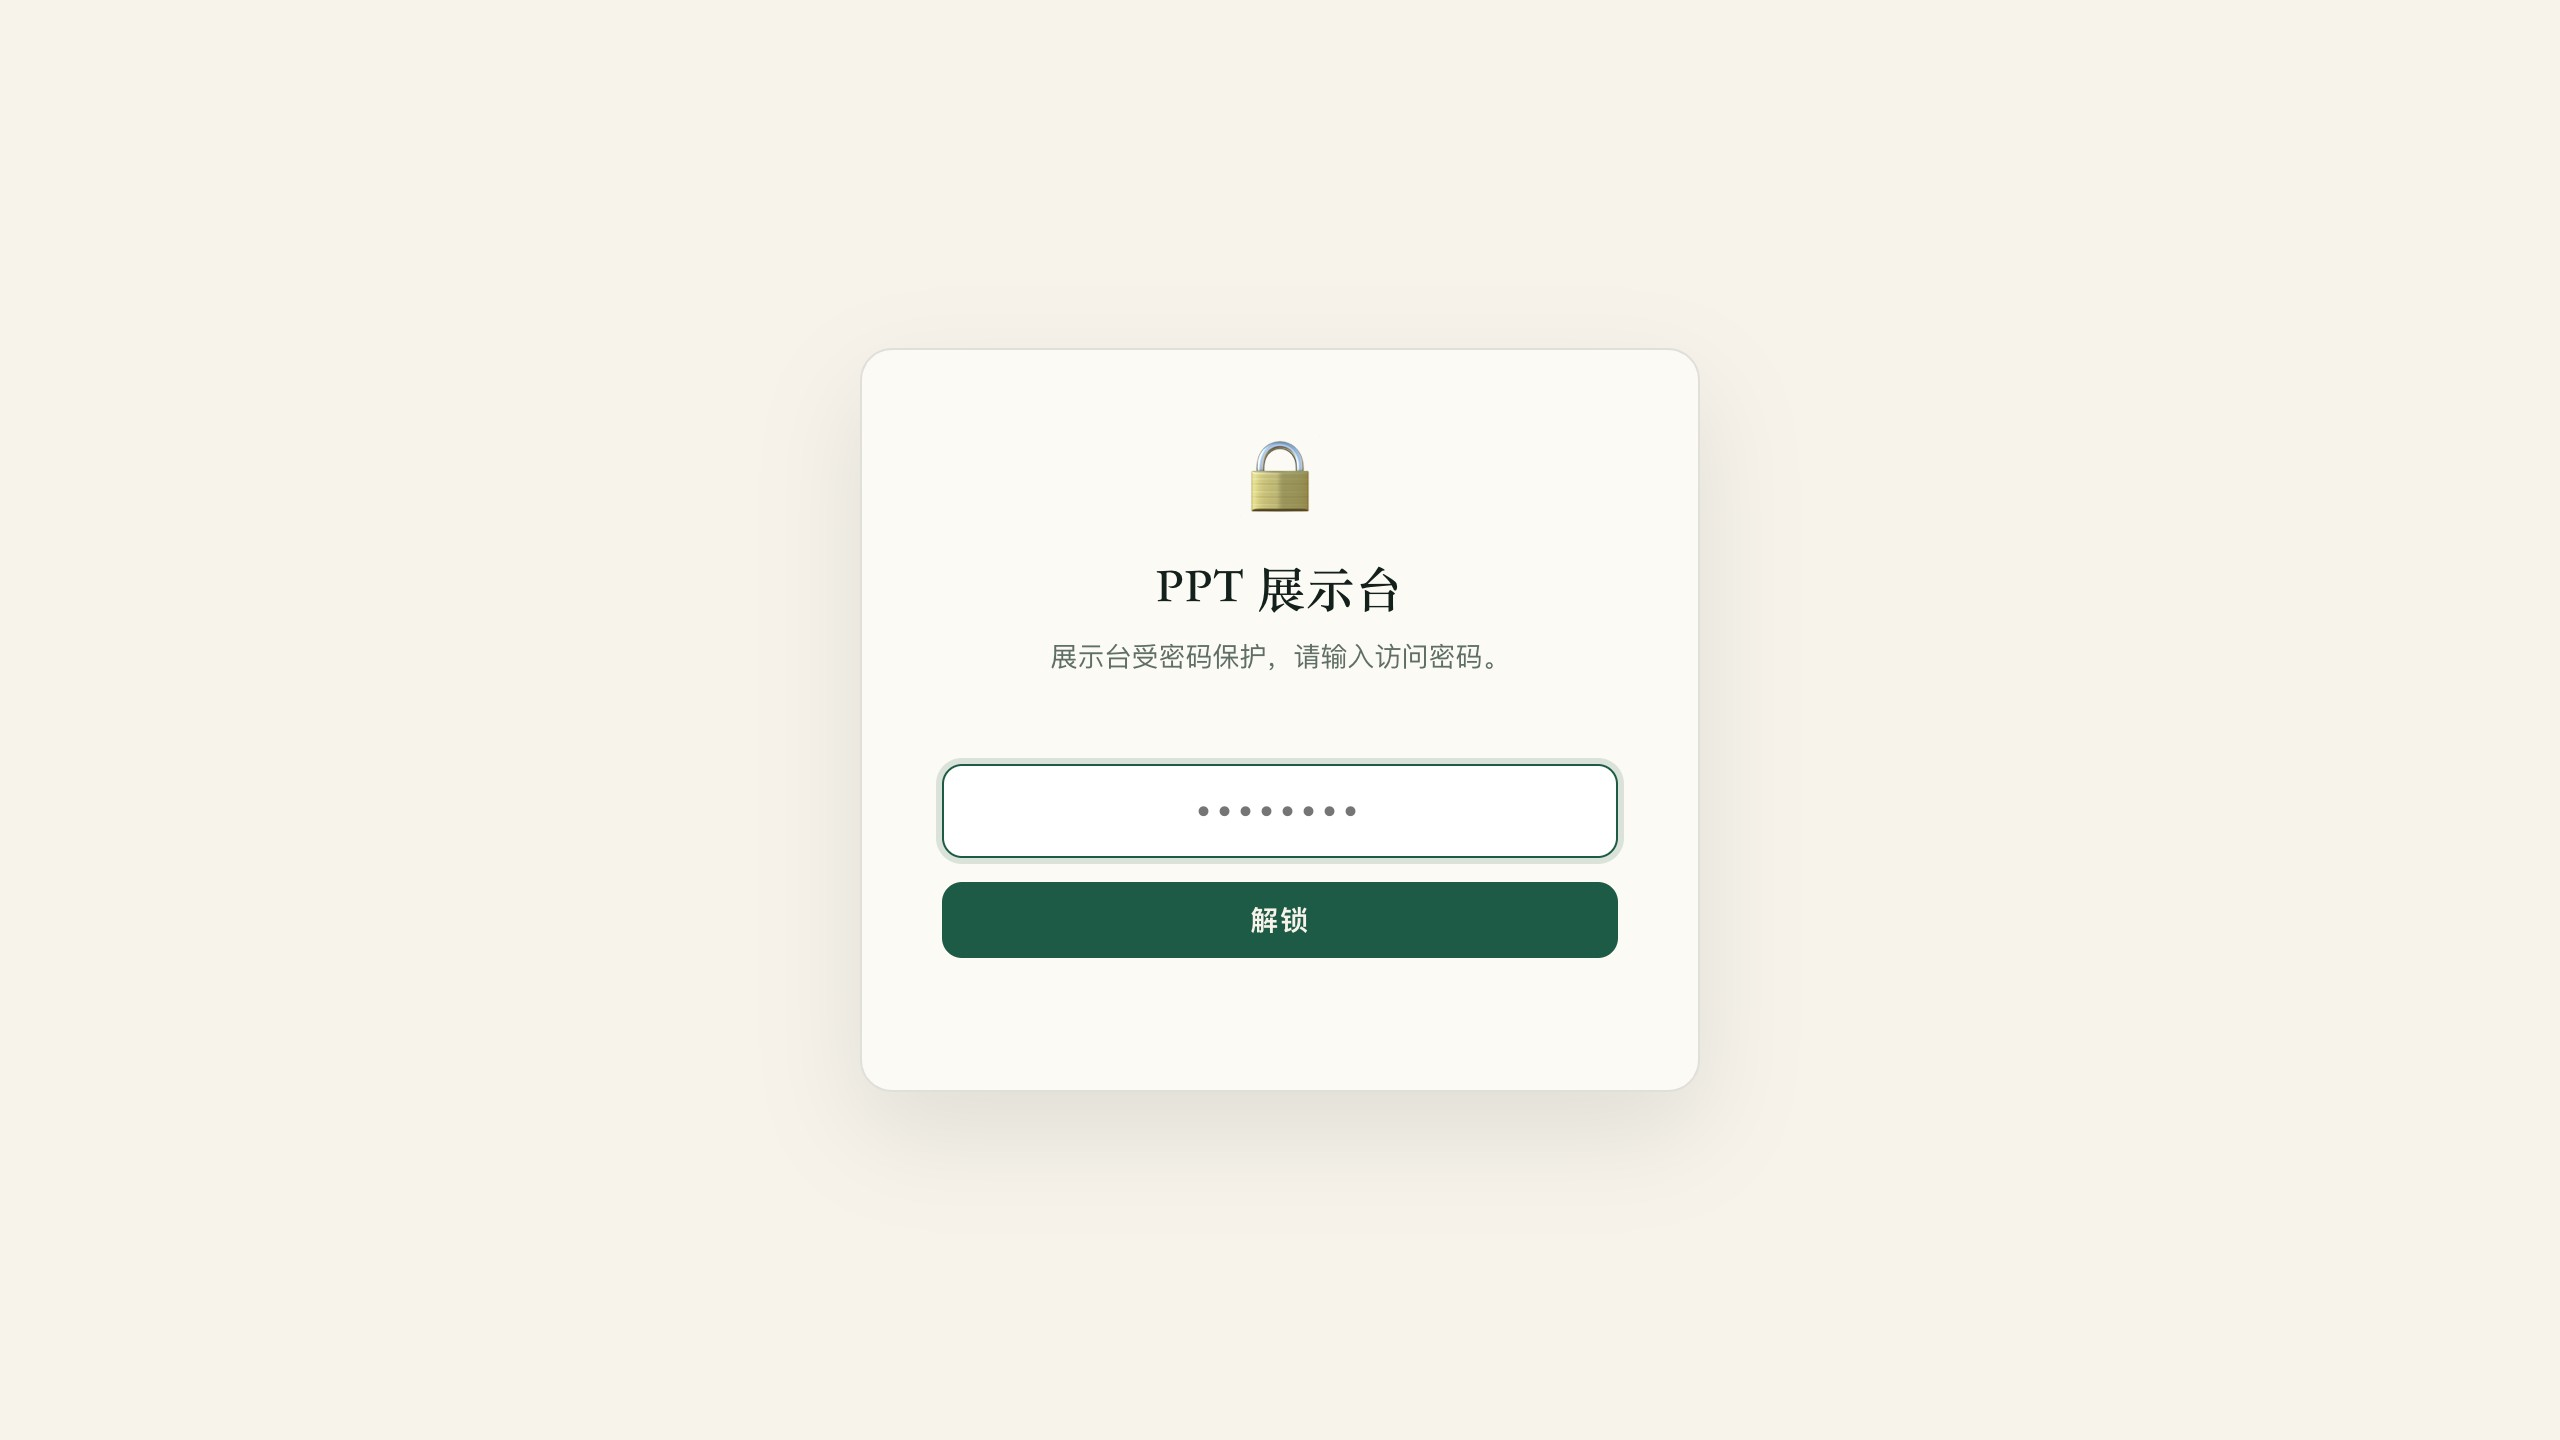
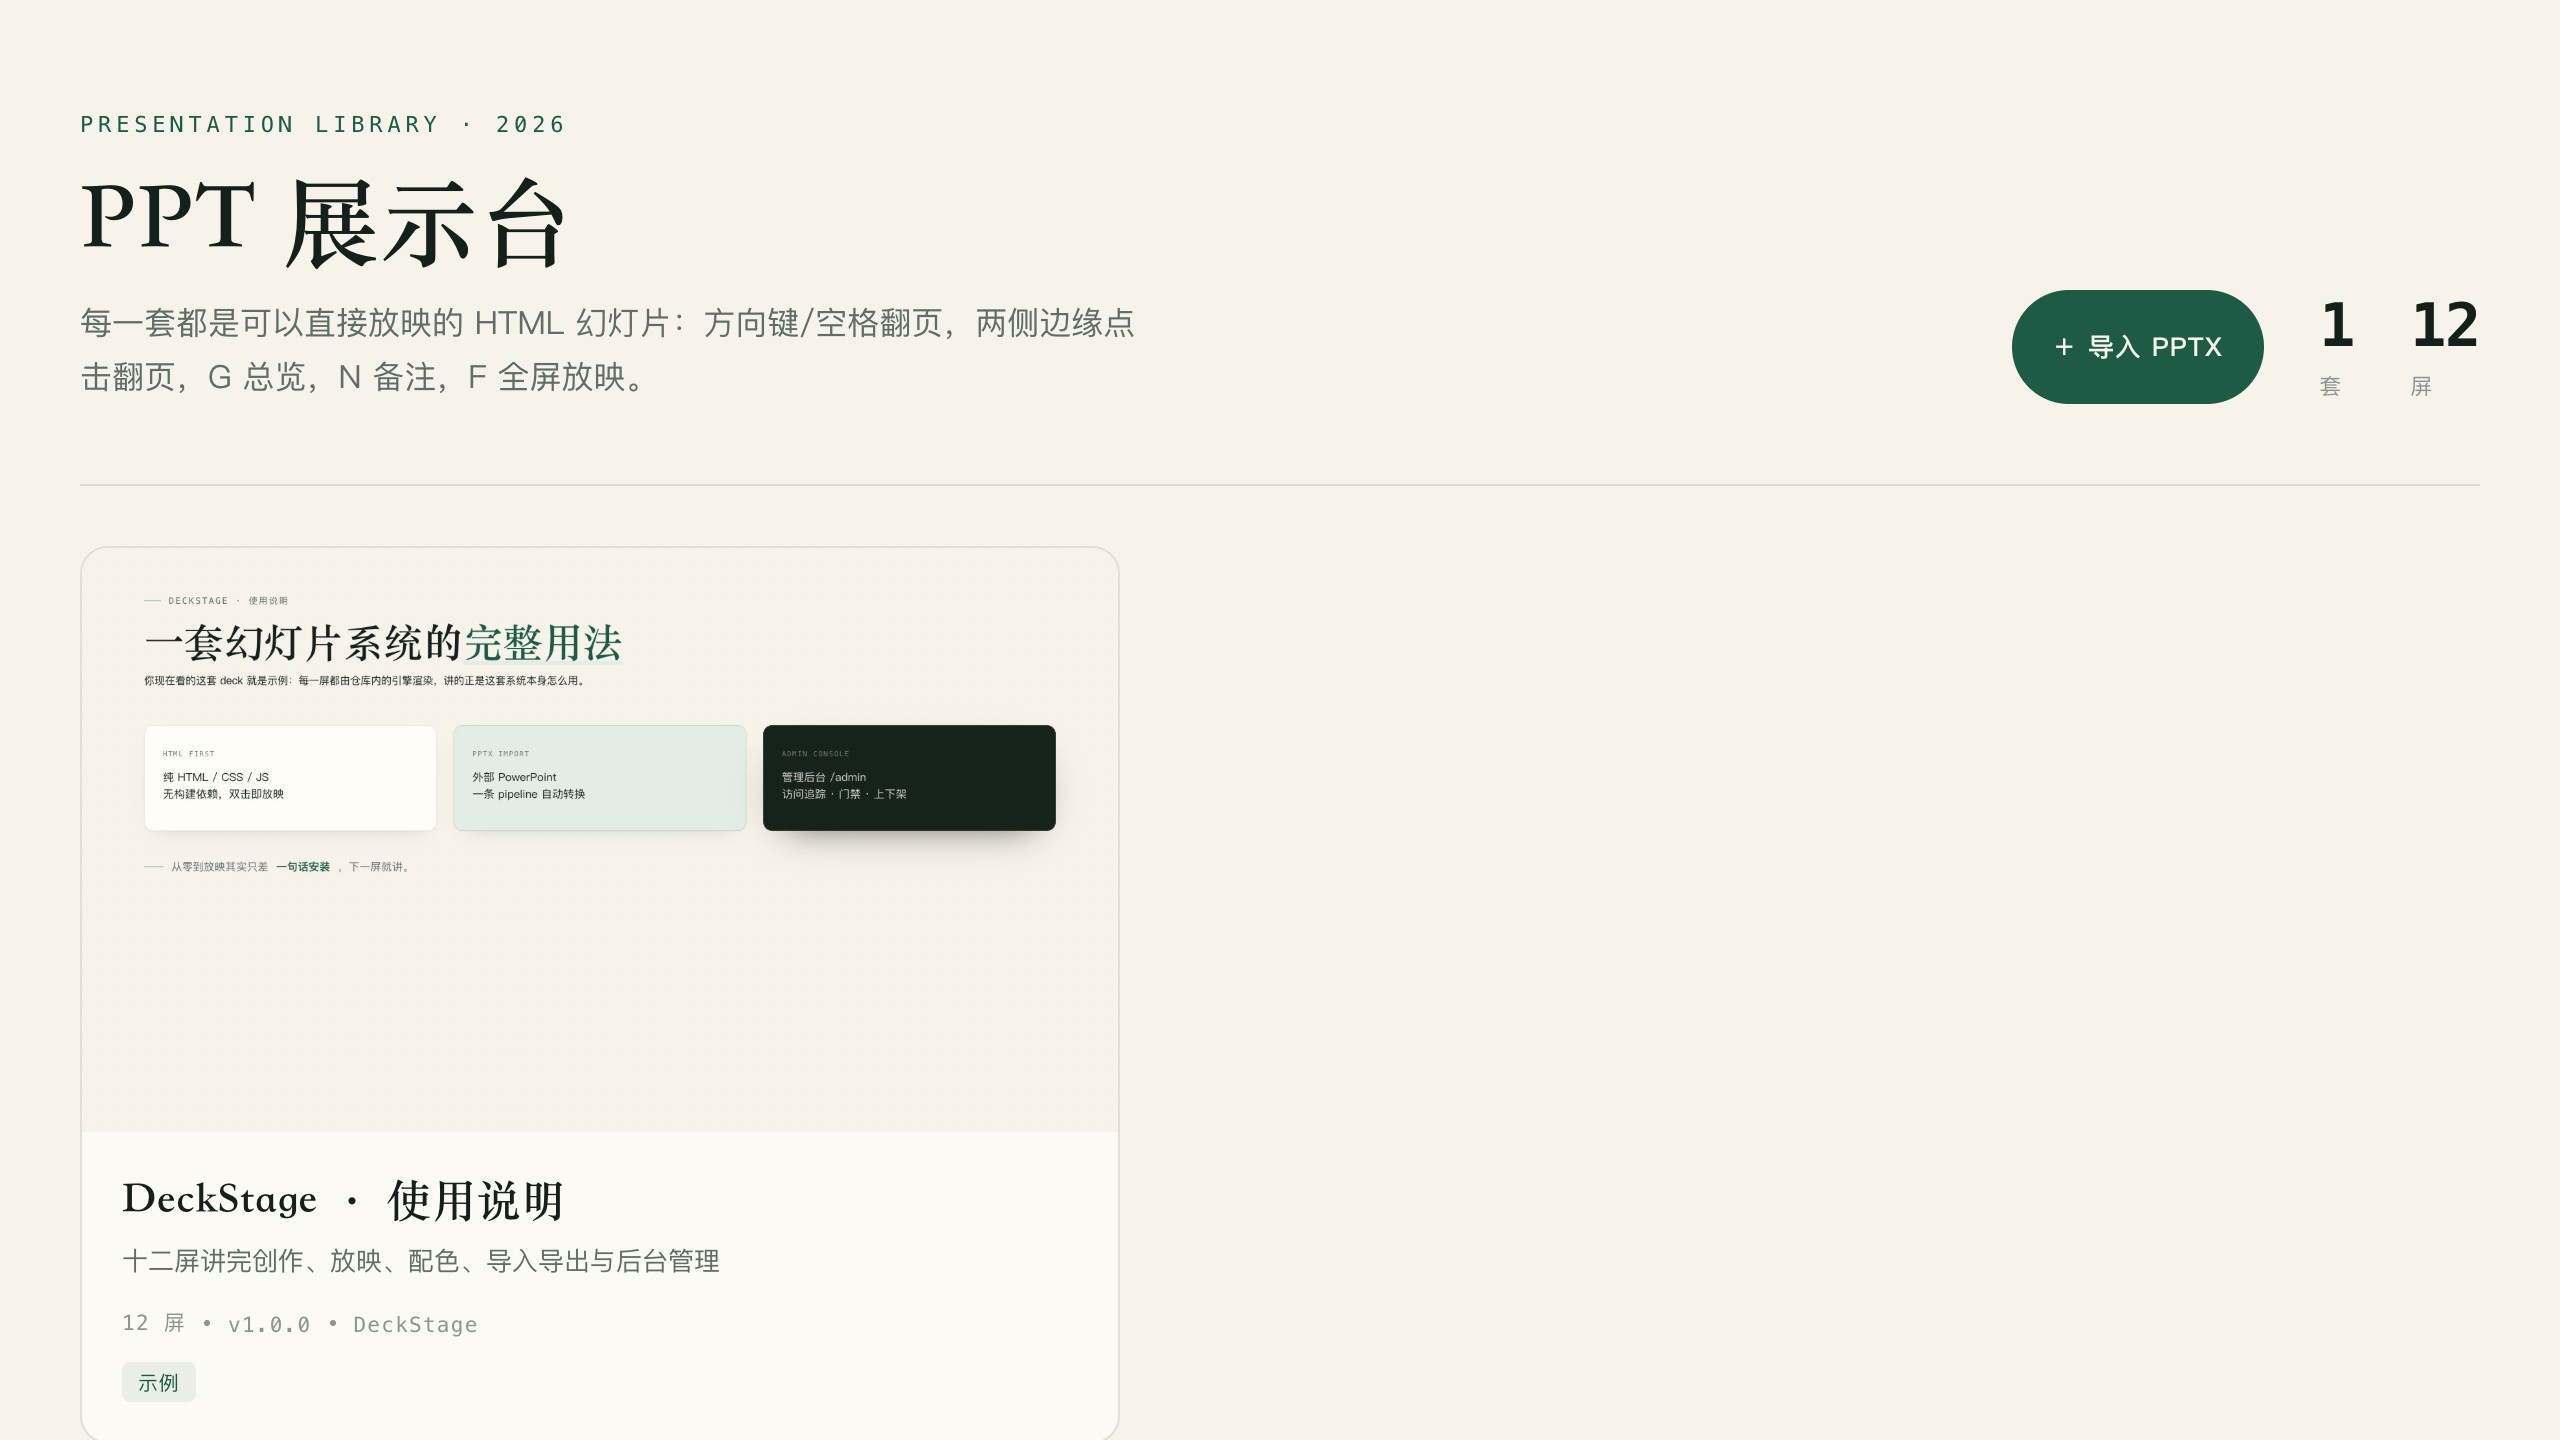
docs: README 图例去除管理后台截图，展示台图改用仅示例 deck 的沙箱实拍
- 移除 docs/img/admin.jpg：管理面板含本地访问统计（观看时长/次数），
  属于部署方的运行数据，不应随开源仓库公开。
- library.jpg 重拍：沙箱站点只装 sample-deck（--root 隔离），
  不再包含真实 deck 的封面与标题；顺带修正 deck.json 副标题屏数。

diff --git a/README.md b/README.md
@@ -64,11 +64,6 @@ node build.mjs --src src-mine --deck my-deck
 
 ![玄墨深色主题](docs/img/theme-dark.jpg)
 
-**管理后台 `/admin/`**：访问追踪（谁看了什么、看了多久、逐屏停留）与门禁管理
-——展示台首页与每套 deck 都可设密码或下架，即时生效（详见 [docs/ADMIN.md](docs/ADMIN.md)）。
-
-![管理后台](docs/img/admin.jpg)
-
 ## 二·五、最佳实践：让 AI 替你写 deck
 
 被验证最多的用法（示例 deck 第 3 屏是图文版）。安装也是一句话的事——把
